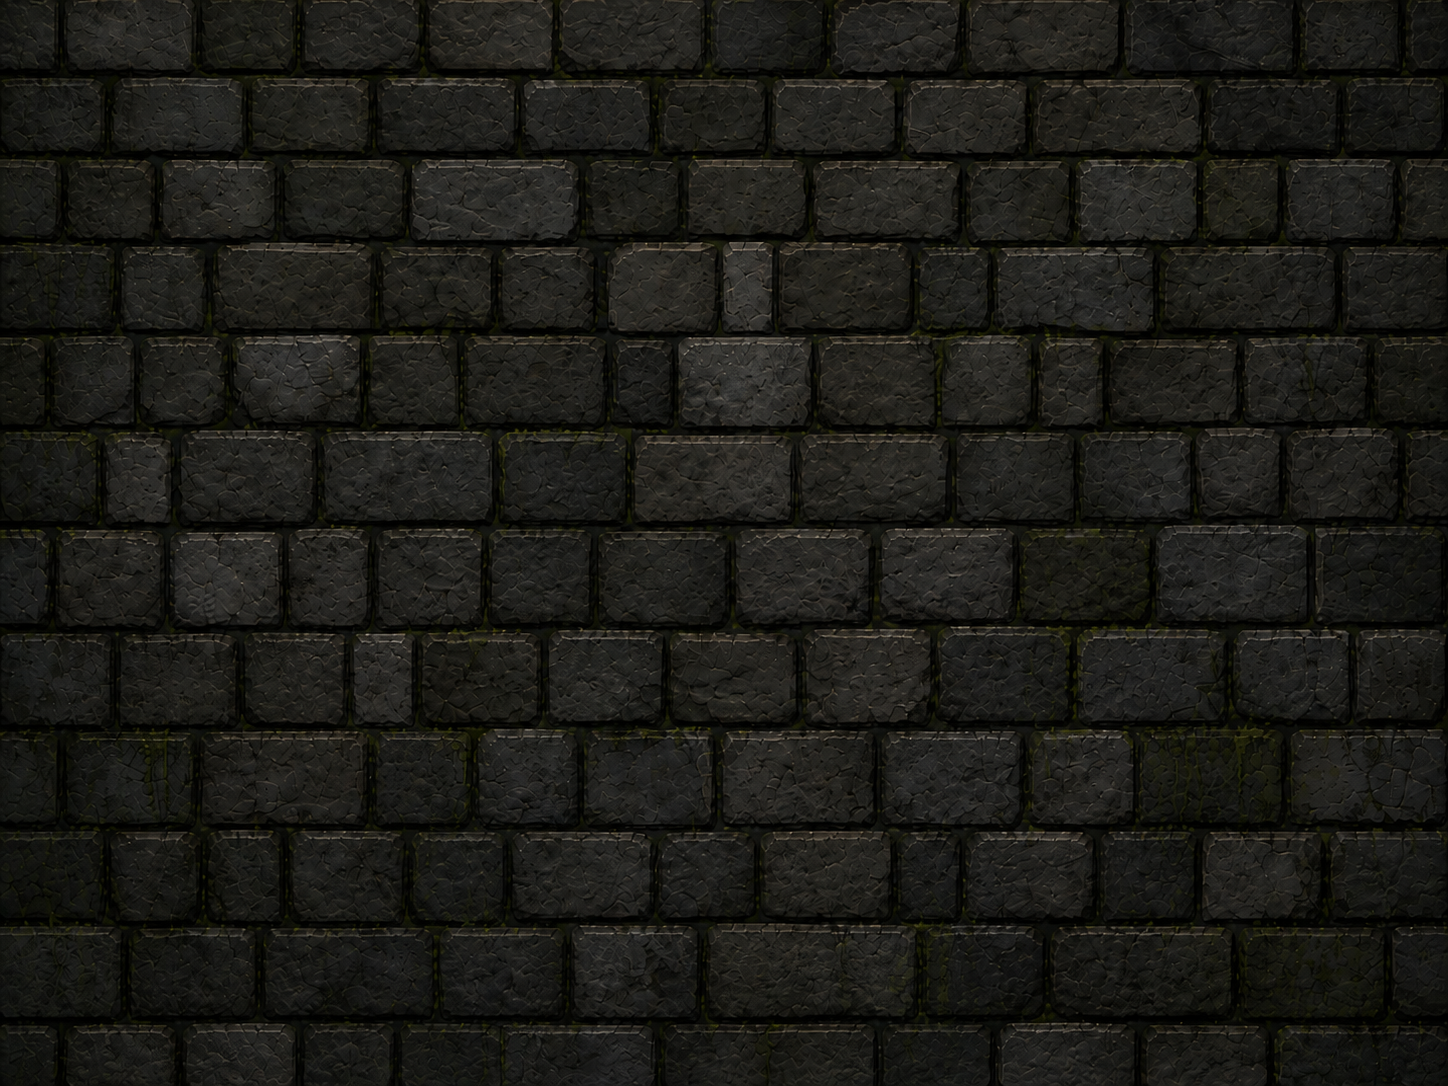
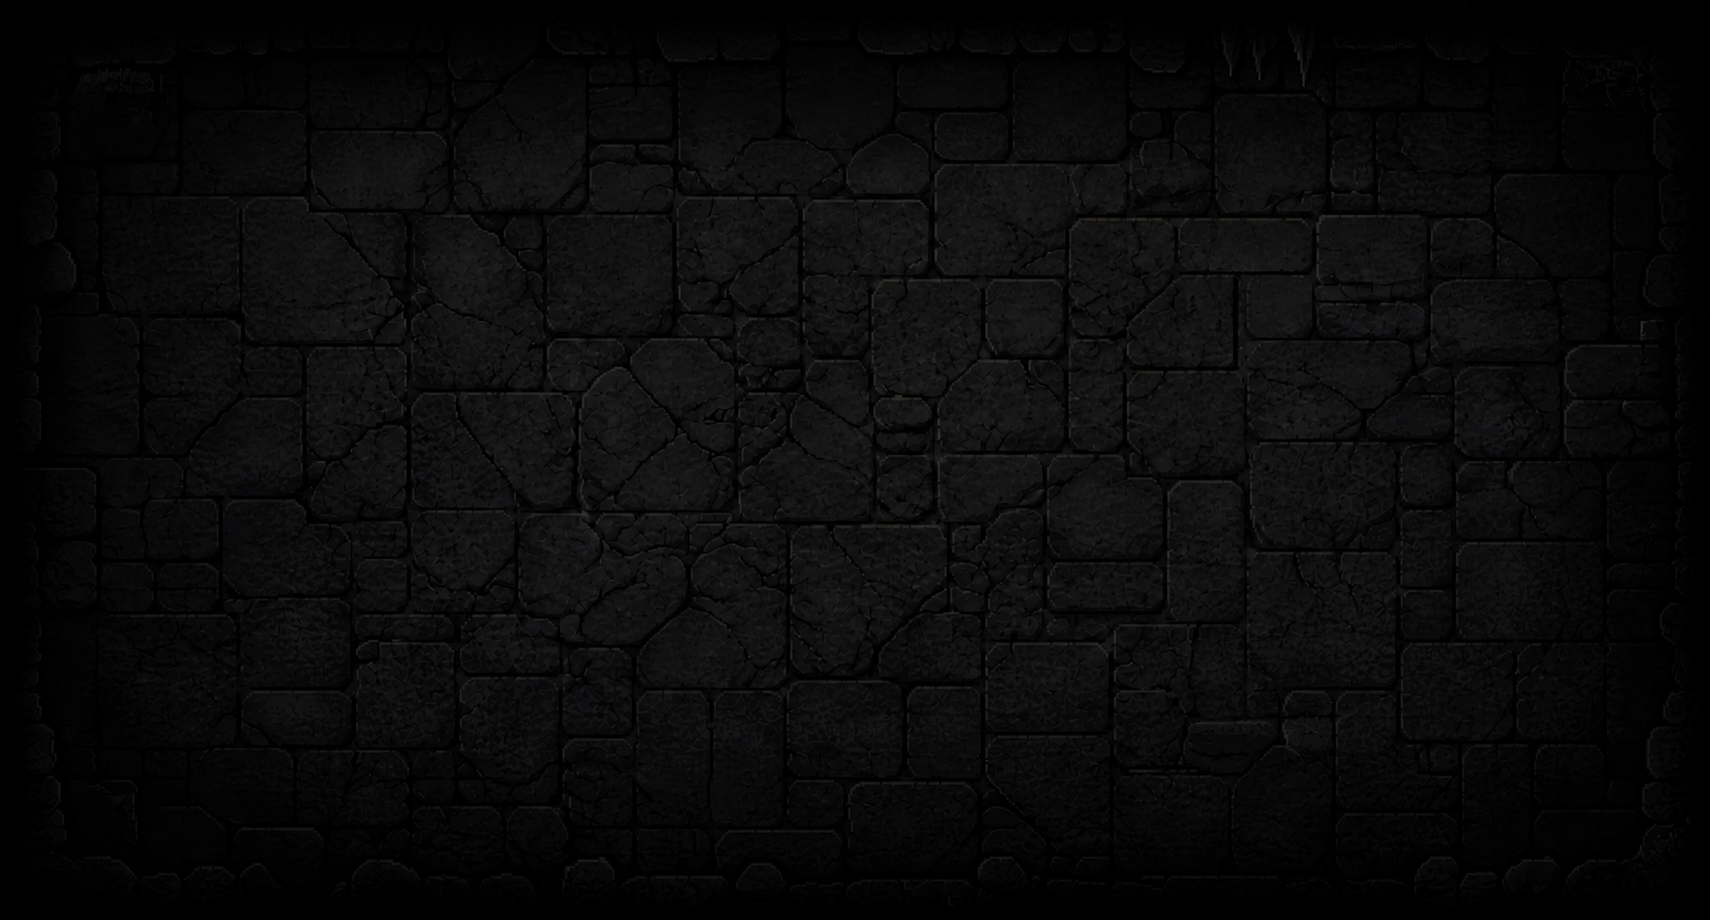
feat(boot): new flagstone backdrop + simultaneous torch ignition with room brightening
* Replaces public/assets/ui/stone_wall.png with the new flagstone-style
  artwork (1710x920, RGB). The asset is stretched to fit the play area
  via setDisplaySize, so no code changes were needed.

* Both boot-screen torches now ignite simultaneously (delayMs 800 for
  both, was staggered 420 / 720). Sprite fade-in slowed from 220 ms ->
  1200 ms and the glow halo fade-in from 280 ms -> 1500 ms, so the
  ignition reads as a slow flare rather than a snap-on.

* Adds a black dimming overlay between the title chrome and the torches.
  The overlay starts at alpha 0.82 (room is pitch-black on first frame)
  and tweens to 0 over 1500 ms in sync with the torch ignition, mimicking
  the dungeon lighting up as the torches catch.

* Exposes the new fade timings as BootTorch options (fadeDuration,
  glowFadeDuration) so future intros can dial them in without forking
  the helper.

diff --git a/src/scenes/BootScene.ts b/src/scenes/BootScene.ts
@@ -196,22 +196,44 @@ export class BootScene extends Phaser.Scene {
         bg.fillRect(0, 0, GAME_WIDTH, GAME_HEIGHT);
         bg.setDepth(1);
 
-        // Two animated wall torches flanking the title. Each torch
-        // starts hidden, ignites with a procedural fwoom + warm halo,
-        // then loops its flame animation forever. Stagger the two
-        // ignitions slightly so they read as separate events instead
-        // of one synchronized flash.
+        // Darkness overlay — sits above the backdrop / title / glow
+        // but below the torch sprites and chrome. Starts at high alpha
+        // so the room reads as pitch-black on first frame, then tweens
+        // to zero as the torches ignite to mimic the wall lighting up.
+        const IGNITION_DELAY = 800;
+        const ROOM_BRIGHTEN_MS = 1500;
+        const dimOverlay = this.add
+            .rectangle(0, 0, GAME_WIDTH, GAME_HEIGHT, 0x000000, 0.82)
+            .setOrigin(0, 0)
+            .setDepth(5);
+
+        // Two animated wall torches flanking the title. Both ignite
+        // simultaneously after `IGNITION_DELAY` with a slow fade and
+        // matching procedural fwoom; the dim overlay then drops to
+        // zero so the rest of the scene resolves to its normal colour.
         createBootTorch(this, 170, 420, {
             sfx,
-            delayMs: 420,
+            delayMs: IGNITION_DELAY,
             displayHeight: 168,
-            depth: 4,
+            depth: 7,
+            fadeDuration: 1200,
+            glowFadeDuration: 1500,
         });
         createBootTorch(this, GAME_WIDTH - 170, 420, {
             sfx,
-            delayMs: 720,
+            delayMs: IGNITION_DELAY,
             displayHeight: 168,
-            depth: 4,
+            depth: 7,
+            fadeDuration: 1200,
+            glowFadeDuration: 1500,
+        });
+        this.time.delayedCall(IGNITION_DELAY, () => {
+            this.tweens.add({
+                targets: dimOverlay,
+                alpha: { from: 0.82, to: 0 },
+                duration: ROOM_BRIGHTEN_MS,
+                ease: 'Quad.out',
+            });
         });
 
         // Ambient embers on title

diff --git a/src/ui/BootTorch.ts b/src/ui/BootTorch.ts
@@ -63,6 +63,16 @@ export interface BootTorchOptions {
      * torch; bump to 14–16 for a more frantic flame).
      */
     frameRate?: number;
+    /**
+     * Fade-in duration (ms) for the torch sprite when it ignites.
+     * Default 800.
+     */
+    fadeDuration?: number;
+    /**
+     * Fade-in duration (ms) for the glow halo when the torch ignites.
+     * Default 1000.
+     */
+    glowFadeDuration?: number;
 }
 
 export interface BootTorch {
@@ -90,6 +100,8 @@ export function createBootTorch(
     const glowRadius = opts.glowRadius ?? 140;
     const glowColor = opts.glowColor ?? { r: 255, g: 170, b: 70 };
     const frameRate = opts.frameRate ?? 10;
+    const fadeDuration = opts.fadeDuration ?? 800;
+    const glowFadeDuration = opts.glowFadeDuration ?? 1000;
 
     ensureBootTorchAnim(scene, frameRate);
 
@@ -144,7 +156,7 @@ export function createBootTorch(
         igniteFadeTween = scene.tweens.add({
             targets: sprite,
             alpha: { from: 0, to: 1 },
-            duration: 220,
+            duration: fadeDuration,
             ease: 'Quad.out',
         });
         if (!hasTexture) {
@@ -158,14 +170,14 @@ export function createBootTorch(
             scene.tweens.add({
                 targets: placeholderGfx,
                 alpha: 1,
-                duration: 220,
+                duration: fadeDuration,
             });
         }
         scene.tweens.add({
             targets: glow,
             alpha: { from: 0, to: 1 },
             scale: { from: 0.55, to: 1.0 },
-            duration: 280,
+            duration: glowFadeDuration,
             ease: 'Quad.out',
             onComplete: () => {
                 // Once lit, breathe the glow gently (sine flicker)

diff --git a/public/assets/ui/README.md b/public/assets/ui/README.md
@@ -9,7 +9,7 @@ glyph for icons.
 | --- | --- | --- | --- |
 | `top_bar.png` | 1024×134 | yes | top HUD frame (carved stone bezel, scaled to panel height) |
 | `bottom_bar.png` | 1024×155 | yes | bottom HUD frame (scaled to panel height) |
-| `stone_wall.png` | optional | no | background of the play area between panels |
+| `stone_wall.png` | 1710×920 | no | background of the play area between panels; stretched to fit via `setDisplaySize`. Optional — falls back to the procedural `StoneBackdrop` renderer when missing. |
 | `hud_icons.png` | 512×128 | yes | 8×2 grid of 64×64 frames in `IconFrame` order |
 | `room_frames.png` | 192×64 | yes | 3×1 grid of 64×64 frames (gold / red / grey) for map nodes |
 | `room_icons.png` | 576×64 | yes | 9×1 grid of 64×64 room-type icons. Frame order matches `ROOM_ICON_FRAME` in `src/ui/RoomVisuals.ts`: 0 campfire (START/REST), 1 enemy skull, 2 stone "?" (EMPTY), 3 elite skull, 4 boss crown skull (BOSS/MINI_BOSS), 5 chest (TREASURE), 6 sigil (TRAP), 7 tombstone (SHRINE), 8 coin pouch (MERCHANT) |